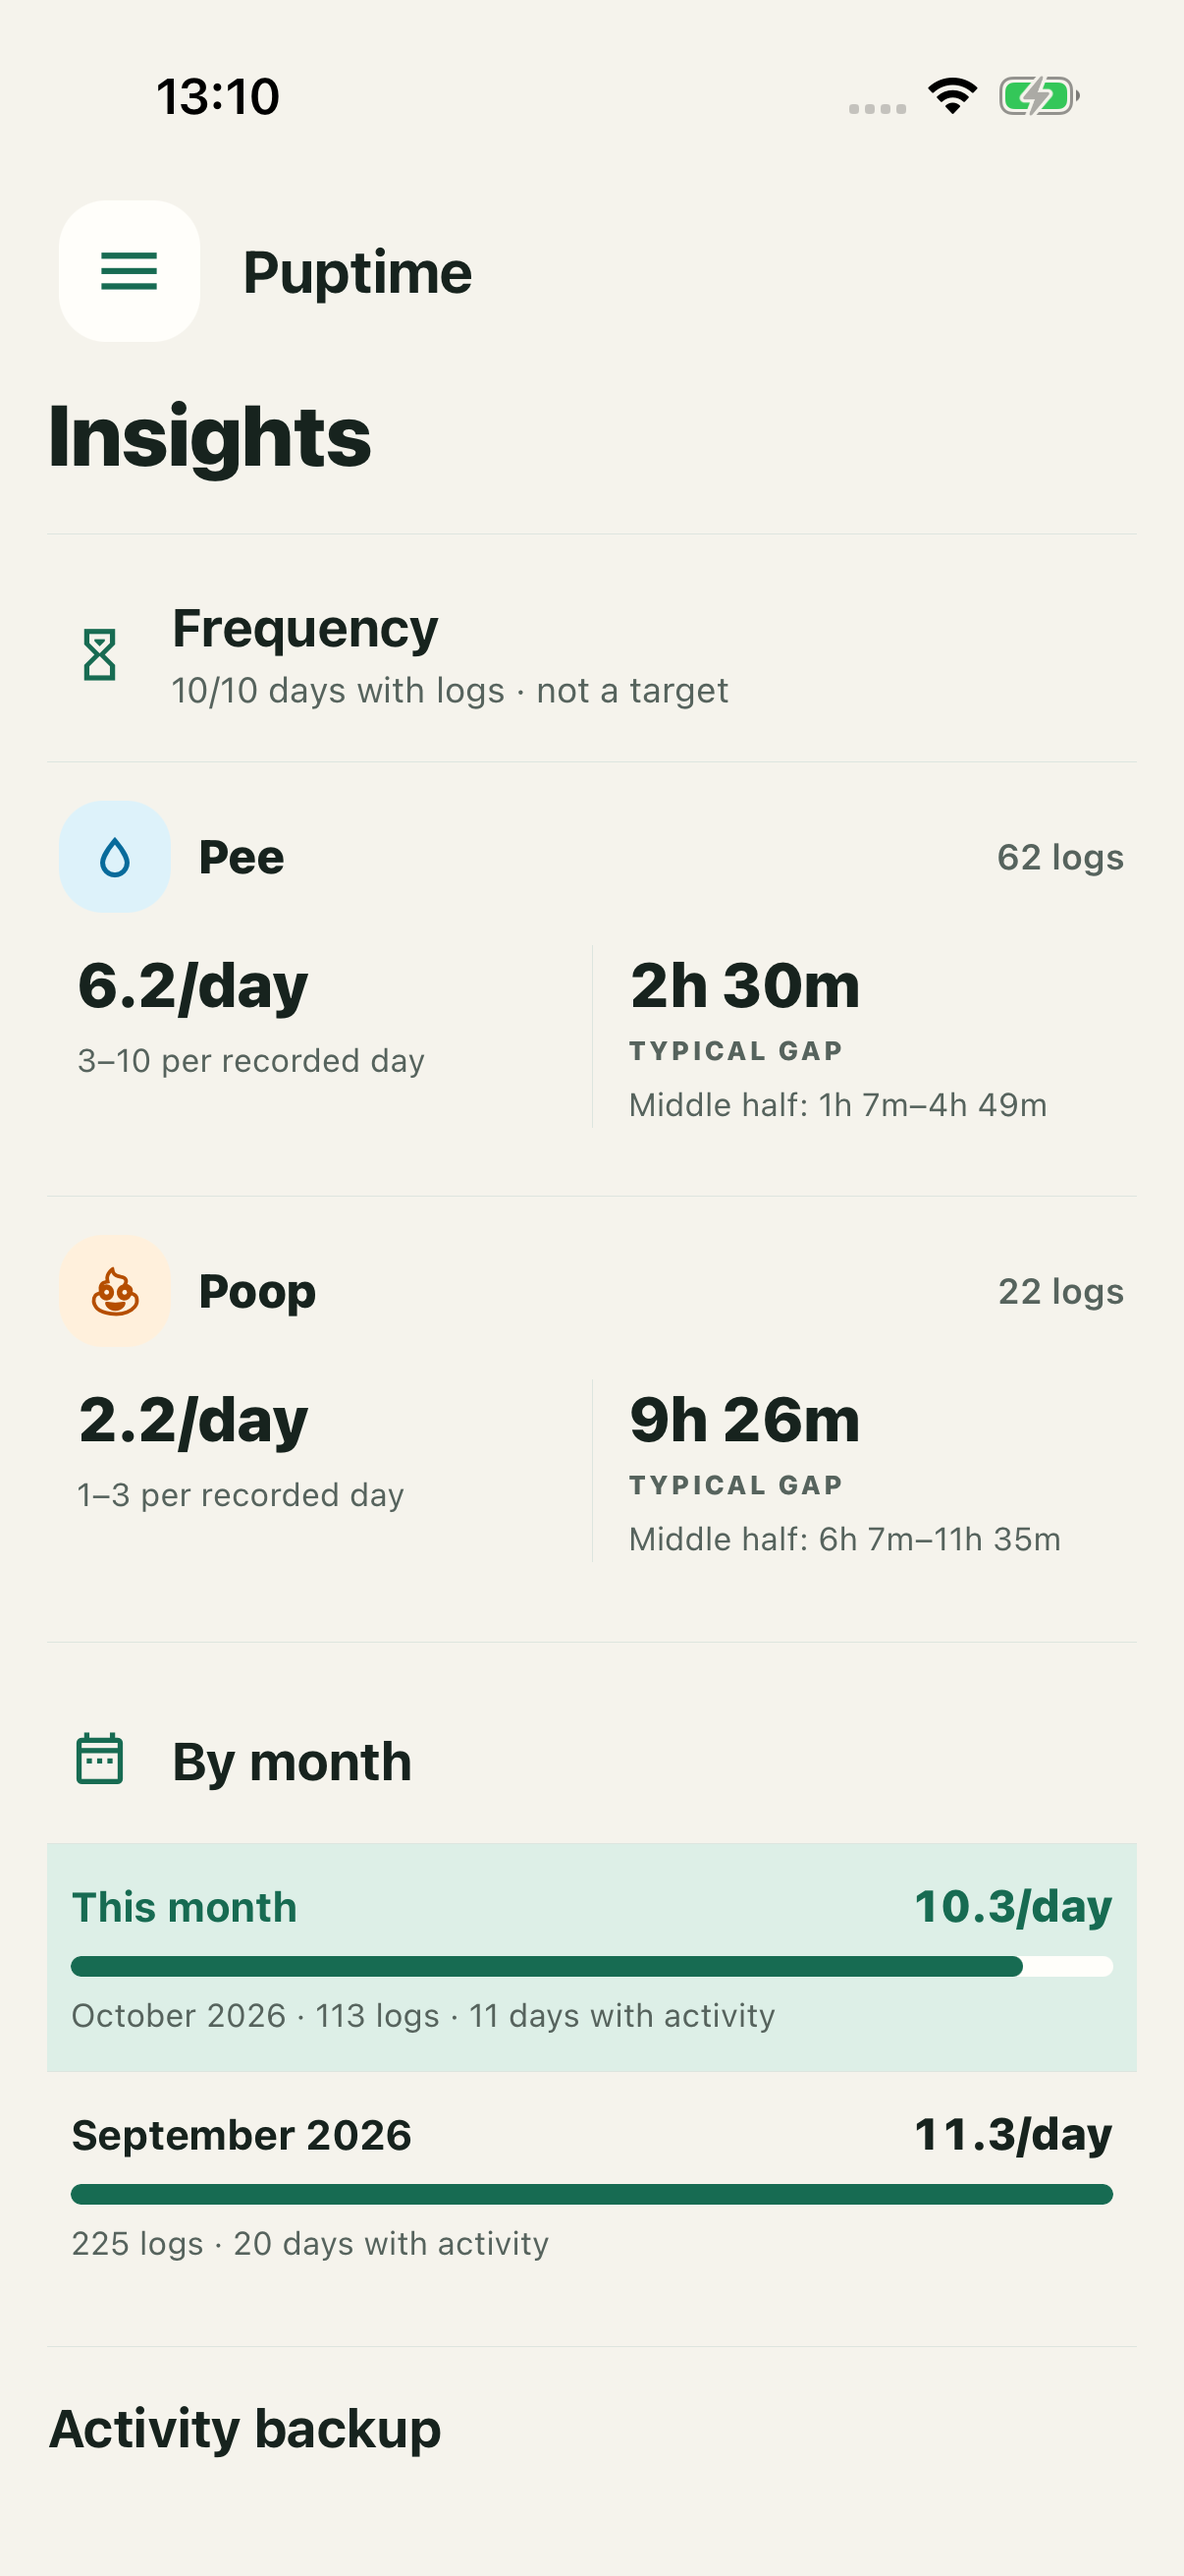
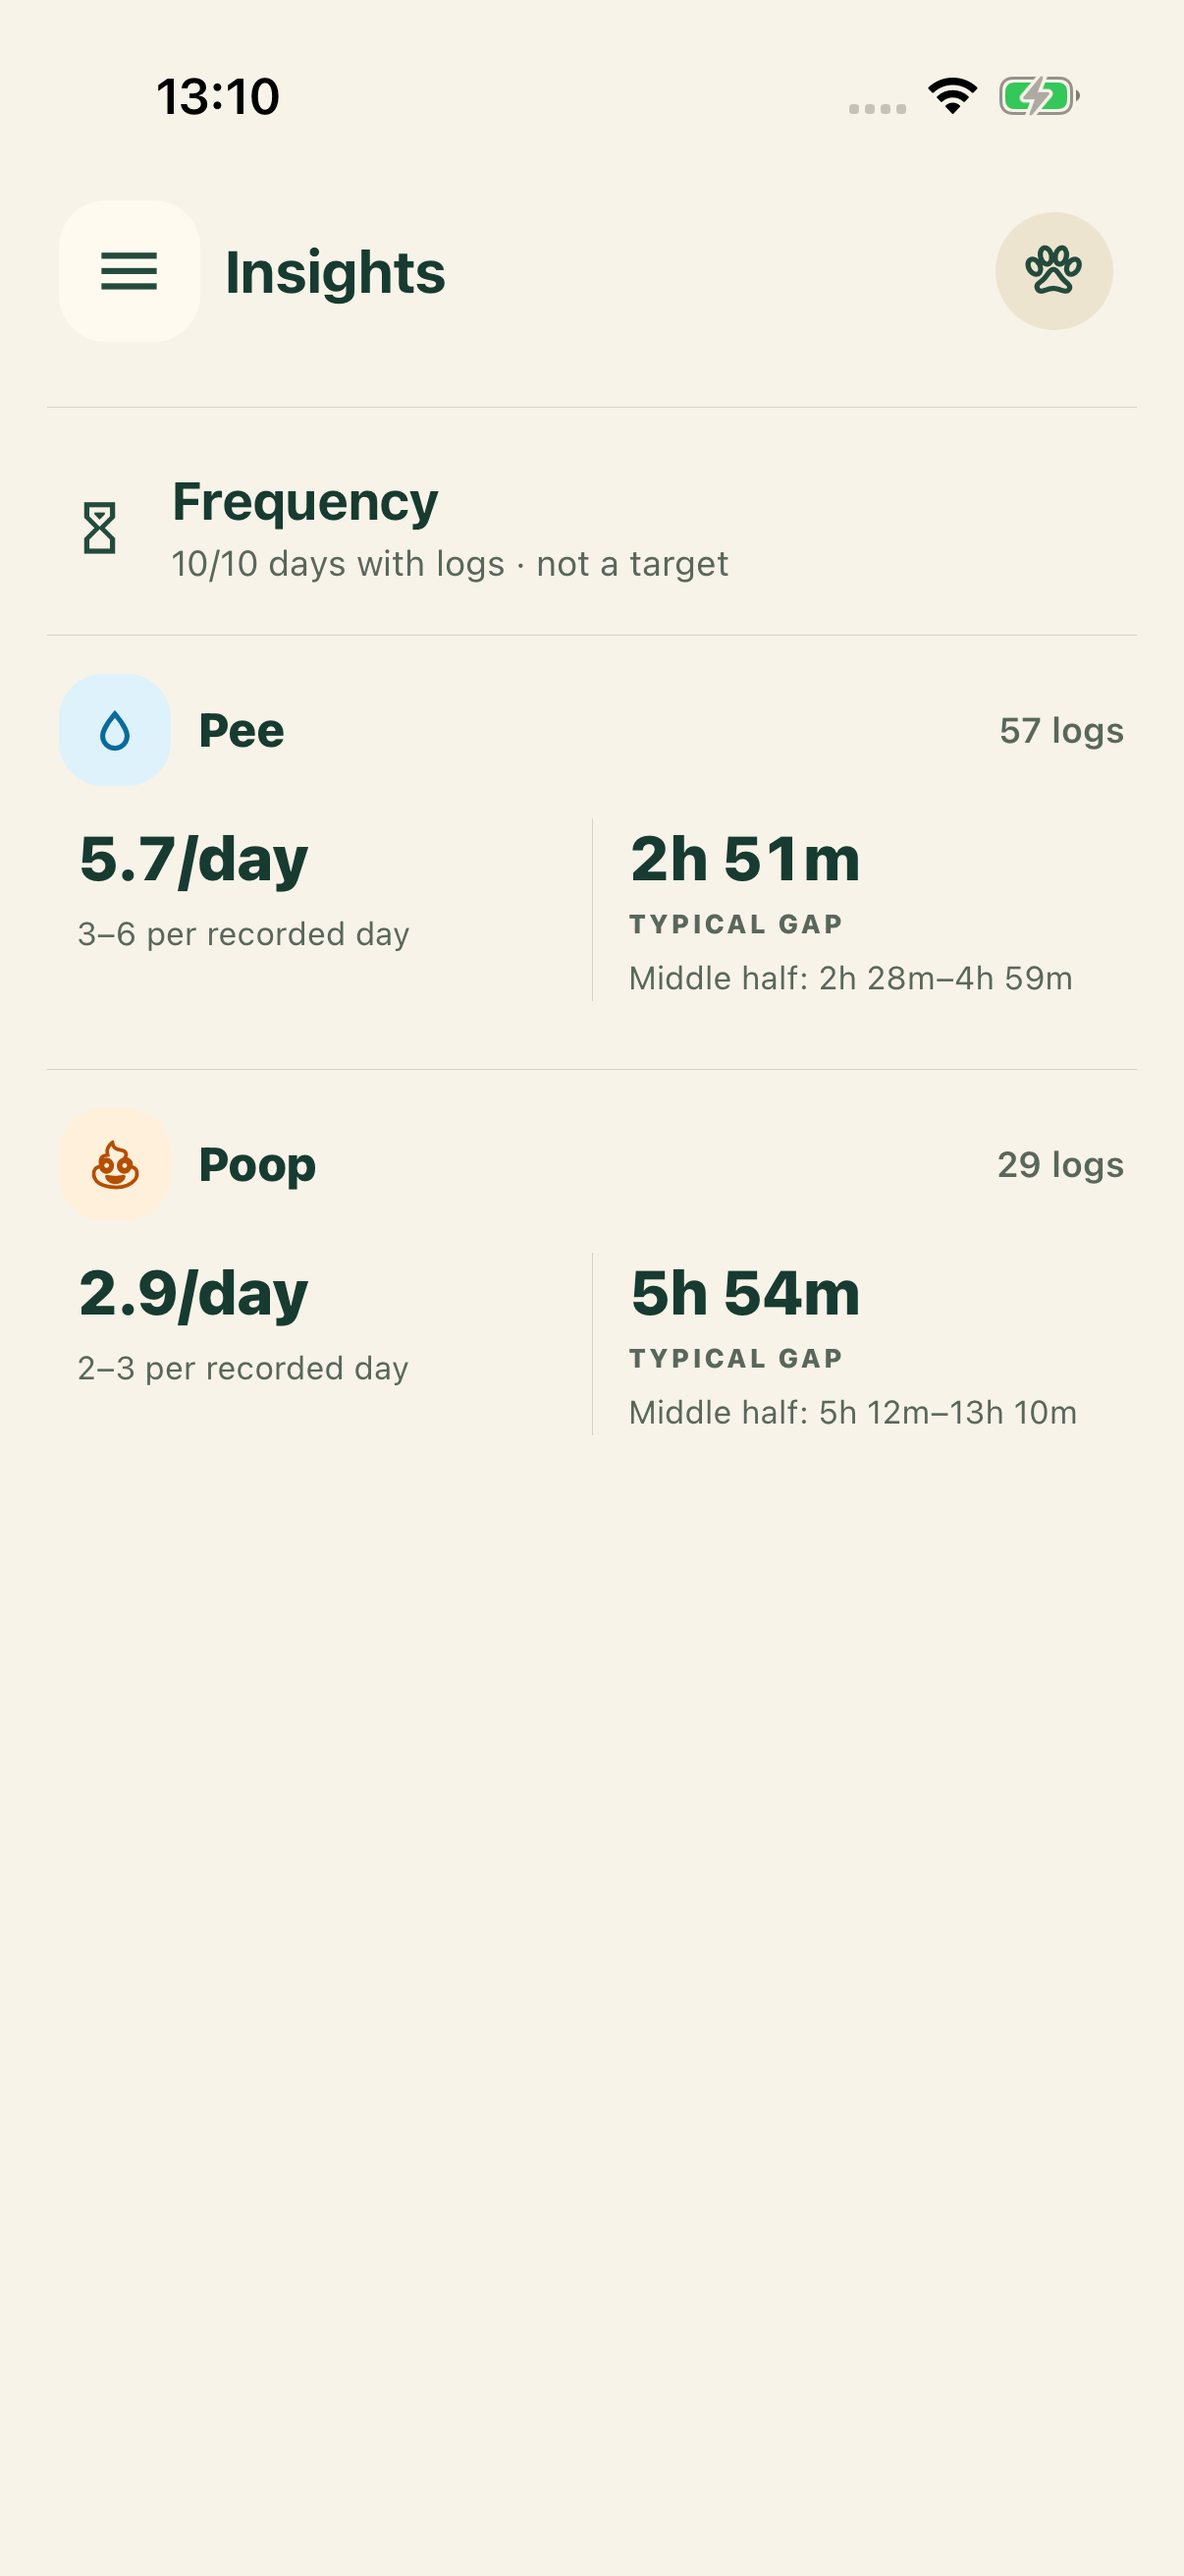
Refresh website screenshots from current native UI with example logs

diff --git a/App.web.tsx b/App.web.tsx
@@ -100,7 +100,7 @@ export default function MarketingSite({ path = '/' }: { path?: string }) {
             {previews.map((preview, index) => <button type="button" key={preview.name} aria-pressed={selected === index} aria-controls="app-preview" onClick={() => setSelected(index)}>{preview.name}<span aria-hidden="true">↗</span></button>)}
           </div>
           <p className="preview-description" aria-live="polite" aria-atomic="true">{previews[selected].description}</p>
-          <p className="small-copy">From the app, with real puppy logs.</p>
+          <p className="small-copy">From the app, with example puppy logs.</p>
         </div>
         <figure className="app-preview" id="app-preview" data-reveal>
           <PhoneFrame><img key={selected} src={previews[selected].image} alt={`Puptime ${previews[selected].name} screen`} width="1206" height="2622" /></PhoneFrame>
@@ -117,7 +117,7 @@ export default function MarketingSite({ path = '/' }: { path?: string }) {
           <article className="rhythm-story">
             <h3 data-reveal>Spot the potty patterns</h3>
             <div className="story-content">
-              <PhoneFrame reveal><img src={timingImage} alt="Puptime timeline showing real puppy activity with varied daily timings" width="1206" height="2622" loading="lazy" /></PhoneFrame>
+              <PhoneFrame reveal><img src={timingImage} alt="Puptime timeline showing example puppy activity" width="1206" height="2622" loading="lazy" /></PhoneFrame>
               <p data-reveal>Compare activity across recorded days. Look for recurring potty times, with estimates kept separate from recorded logs.</p>
             </div>
           </article>

diff --git a/assets/screenshots/README.md b/assets/screenshots/README.md
@@ -1,22 +1,44 @@
 # Website app captures
 
 The five website screenshots (`today`, `activity`, `insights-summary`,
-`insights-timeline`, and `schedule`) were retaken on October 21, 2026 from
-the current app source on a dedicated iPhone 17 simulator running iOS 26.5.
-Each PNG is a full-resolution 1206 × 2622 native capture.
+`insights-timeline`, and `schedule`) were captured on November 20, 2026 from
+native iOS app source `4a8450dfafc6d2f49313309a1518edf59001fdc2` on a dedicated
+iPhone 17 Pro simulator running iOS 26.5. Each PNG is an unedited,
+full-resolution 1206 × 2622 native capture in the current light theme.
 
-The journal contains 338 real CSV records from September 11 through October 11.
-Their dates, activity types, and times are preserved. Personal note text is
-omitted from the public captures; the source CSV and simulator database stay
-outside version control. The routine uses the app's suggestions from that history.
+The journal is wholly artificial: 175 example potty and meal logs for the
+fictional puppy Biscuit, covering 14 completed days and seven activities today.
+Short example notes and small timing variations are defined directly in
+[`scripts/seed-website-screenshots.mjs`](../../scripts/seed-website-screenshots.mjs).
+No personal history, CSV, account, export, or live service supplied the data.
+The routine uses the app's suggestions from this artificial history.
 
-For the captures, the local simulator app's clock is anchored to October 11
-at 13:10 in Asia/Shanghai so the last recorded day can appear as Today. This is
-a capture-only clock override; the published app has no override or demo data.
-The native runtime is the existing 1.11.30 simulator build, with a fresh
-production JavaScript bundle and assets exported from the current checkout.
+The capture-only entry point freezes the app clock at November 20, 2026,
+13:10 in Asia/Shanghai. The native status bar shows the same time, Wi-Fi,
+and full battery. The ordinary app entry point, styling, and components are
+unchanged; no fixture or clock override is included in the shipped app.
+The native sequence is in
+[`scripts/capture-website-screenshots.yaml`](../../scripts/capture-website-screenshots.yaml).
+The seeder accepts only the named task simulator and refuses an existing database.
 
-The PNGs contain the app screen only. The website adds a metal rim, proportional
-black bezels, side buttons, camera cutout, home indicator, and shadow in CSS,
-keeping the original pixels available at native resolution. The widget and appearance reference images
-are older captures and are not displayed on the website.
+The native host is version 1.12.0/build 1 from the trusted main/push
+[run 43918521099](https://github.com/patrickchin/puptime/actions/runs/43918521099),
+at source `13ddfcc541140596ff5001b60c045fba754ae912`, attempt 1, under the
+explicit `compiled-for-testing` policy. Its simulator artifact's SHA-256 is
[1 lines of base64/hex data omitted]
+Native configuration, dependencies, plugins, and source assets matched the app
+source above before the new screenshots were installed in this repository.
+Current production-mode JavaScript was embedded into a copy of that host with
+the capture-only clock, an unreachable loopback cloud origin, and analytics
+unconfigured. Native executable code and Info.plist were verified unchanged;
+strict deep signatures and the installed JavaScript hash were verified.
+The captured JavaScript SHA-256 is
[1 lines of base64/hex data omitted]
+This is media-capture provenance, not release or full end-to-end qualification;
+the host run's later onboarding failure remains separate.
+
+The PNGs contain the app screen only, without cropping, resizing, recolouring,
+or a drawn interface. The website adds its existing phone rim, bezels, side
+buttons, camera cutout, home indicator, and shadow in CSS. The widget and
+appearance images are older reference captures and are not displayed on the
+website. The task simulator was deleted after capture.

diff --git a/README.md b/README.md
@@ -4,9 +4,11 @@ Puptime is a puppy activity log for potty breaks, meals, walks, and daily routin
 
 ## Existing offline release
 
-The screenshots, features, and Android installation instructions below describe the published offline release. Android, widgets, and nap-related changes are deferred during the account-enabled iPhone rollout.
+The features and Android installation instructions below describe the published offline release. Android, widgets, and nap-related changes are deferred during the account-enabled iPhone rollout.
 
 ### Screenshots
+
+The native app captures show current source with artificial example logs. The widget and Settings images are older reference captures.
 
 <table>
   <tr>
@@ -25,7 +27,7 @@ The screenshots, features, and Android installation instructions below describe 
     <th>Settings</th>
   </tr>
   <tr>
-    <td><img src="assets/screenshots/insights-timeline.png" width="260" alt="Puptime timing timeline comparing activity across ten days"></td>
+    <td><img src="assets/screenshots/insights-timeline.png" width="260" alt="Puptime timing timeline comparing example activity across recorded days"></td>
     <td><img src="assets/screenshots/schedule.png" width="260" alt="Puptime editable daily routine with suggested times and progress"></td>
     <td><img src="assets/screenshots/appearance.png" width="260" alt="Puptime Settings screen with theme, language, widget, and notification controls"></td>
   </tr>
